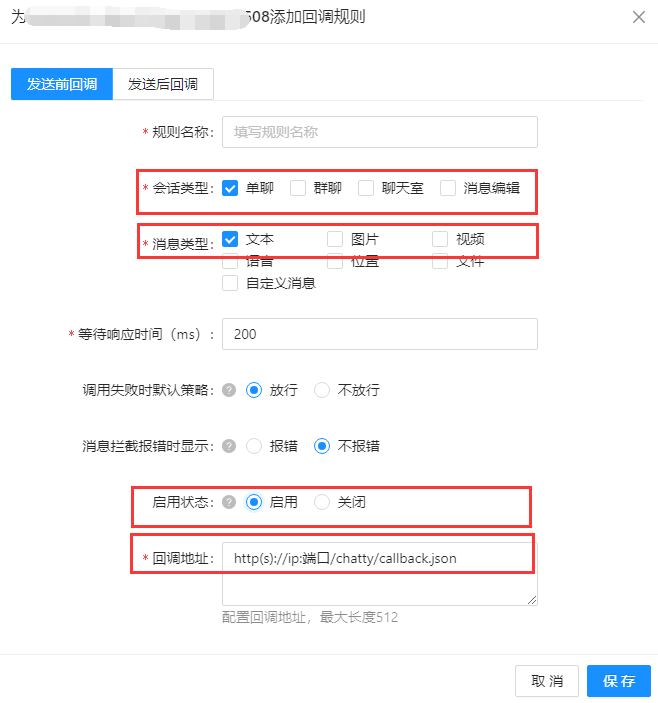
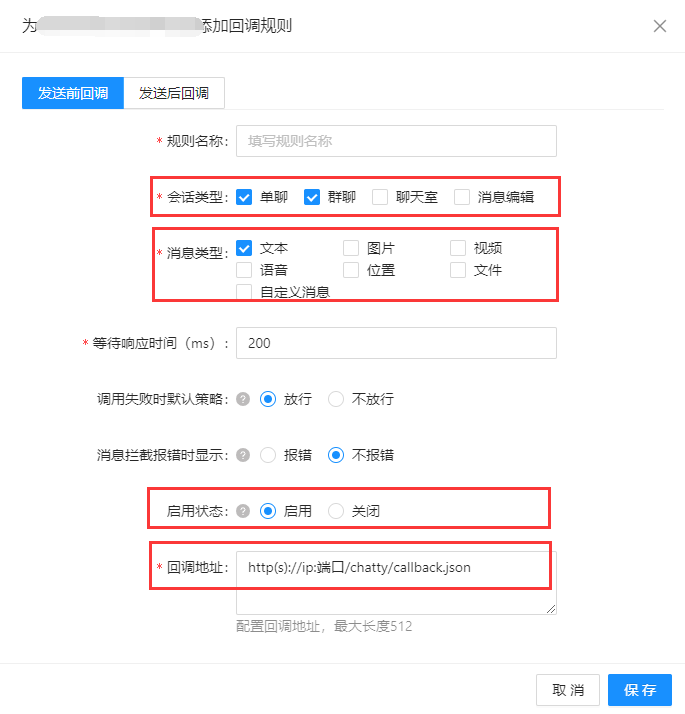
Modify AI Docs

diff --git a/docs/product/aigc/aigc_run_through_demo_server.md b/docs/product/aigc/aigc_run_through_demo_server.md
@@ -86,7 +86,7 @@ bots.put("boy0",botBean0);
 
 若使用消息发送前回调功能，你需要在[环信即时通讯云控制台](https://console.easemob.com/user/login)开通该功能，详见[回调配置相关文档](/product/enable_and_configure_IM.html#配置消息回调)。该功能为增值服务，费用详见[功能费用文档](/product/pricing.html#增值服务费用)。
 
-回调功能开通后，选择**即时通讯** > **功能配置** > **消息回调**，点击**添加回调地址**，配置发送前回调规则。其中，**会话类型**选择**单聊**，**消息类型**选择**文本**，**启用状态**选择**启用**，**回调地址**需确保设置为环信即时通讯 IM 可以通过外网访问到回调地址，格式为 `http(s)://ip:端口/chatty/callback.json`。其他参数的含义详见[配置回调规则相关文档](/product/enable_and_configure_IM.html#配置回调规则)。
+回调功能开通后，选择**即时通讯** > **功能配置** > **消息回调**，点击**添加回调地址**，配置发送前回调规则。其中，**会话类型**选择**单聊**和**群聊**，**消息类型**选择**文本**，**启用状态**选择**启用**，**回调地址**需确保设置为环信即时通讯 IM 可以通过外网访问到回调地址，格式为 `http(s)://ip:端口/chatty/callback.json`。其他参数的含义详见[配置回调规则相关文档](/product/enable_and_configure_IM.html#配置回调规则)。
 
 ![img](/images/aigc/callback_address.png)
 

diff --git a/docs/product/aigc/aigc_selection.md b/docs/product/aigc/aigc_selection.md
@@ -1,6 +1,6 @@
 # 环信 AIGC 方案选择
 
-本文提供两种方案供你接入环信 AI **单聊**服务，实现与机器人的聊天功能：
+本文提供两种方案供你接入环信 AI 聊天服务，实现与机器人的聊天功能：
 
 - **方案一**：利用服务器回调服务，在 IM 中引入 AI 服务。
 - **方案二**：使用环信即时通讯云提供的 AI 智能功能。
@@ -11,7 +11,7 @@
 
 ### 技术架构
 
-目前，环信 AIGC 方案可通过服务器回调服务实现与机器人**一对一聊天**，工作流程如下：
+目前，环信 AIGC 方案可通过服务器回调服务实现与机器人聊天，以单聊为例，工作流程如下：
 
 1. 用户发消息给机器人。
 2. 环信服务器收到消息后，通过服务端回调将事件通知第三方大模型厂商。
